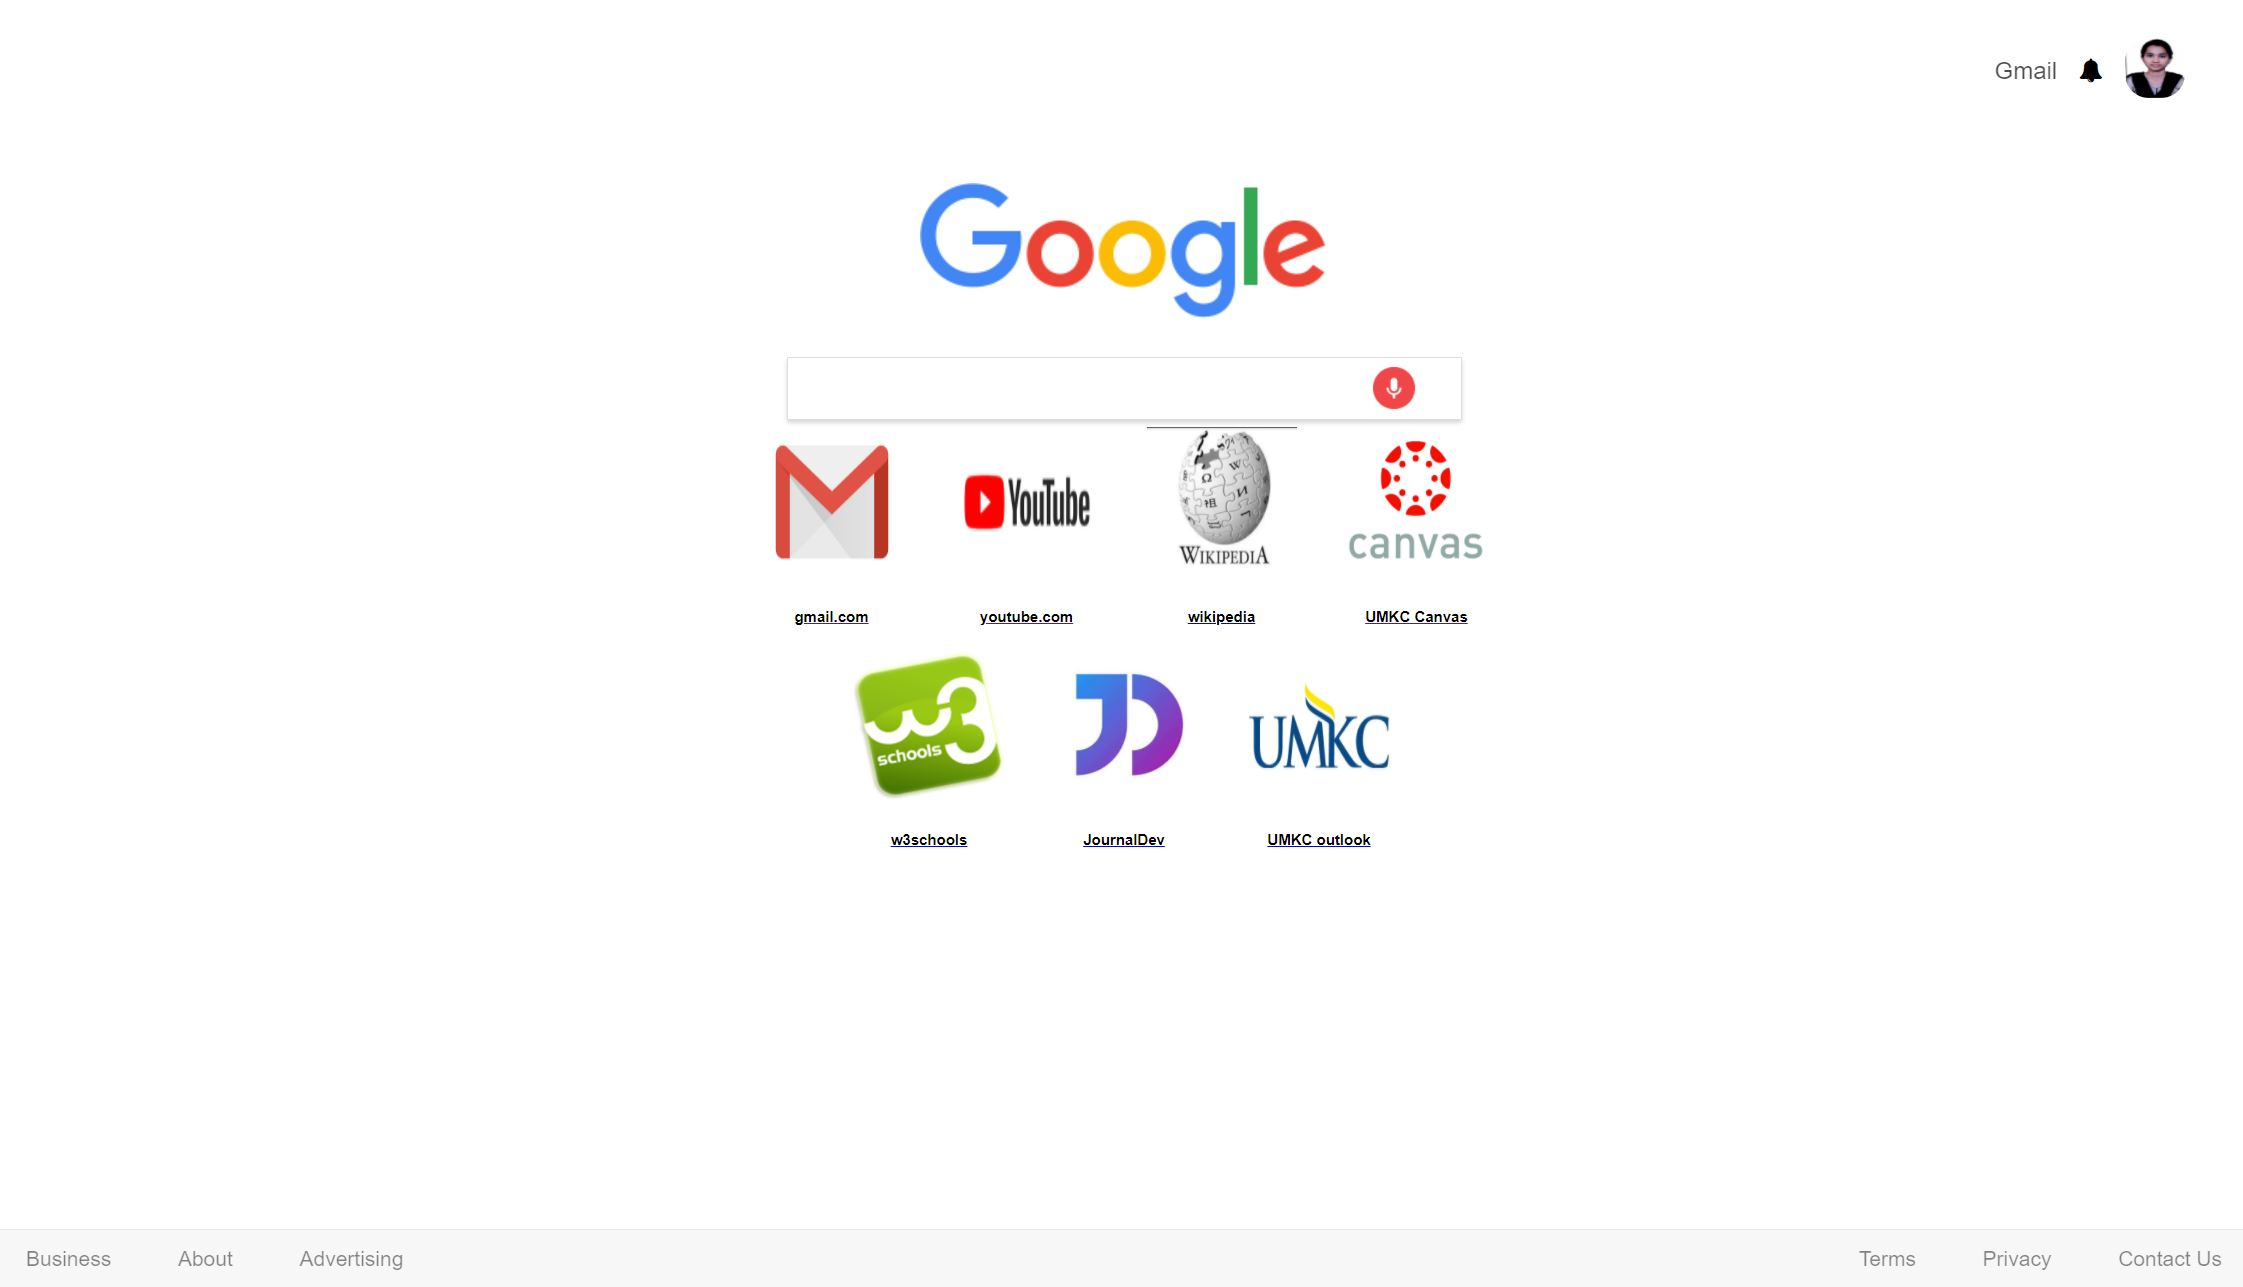
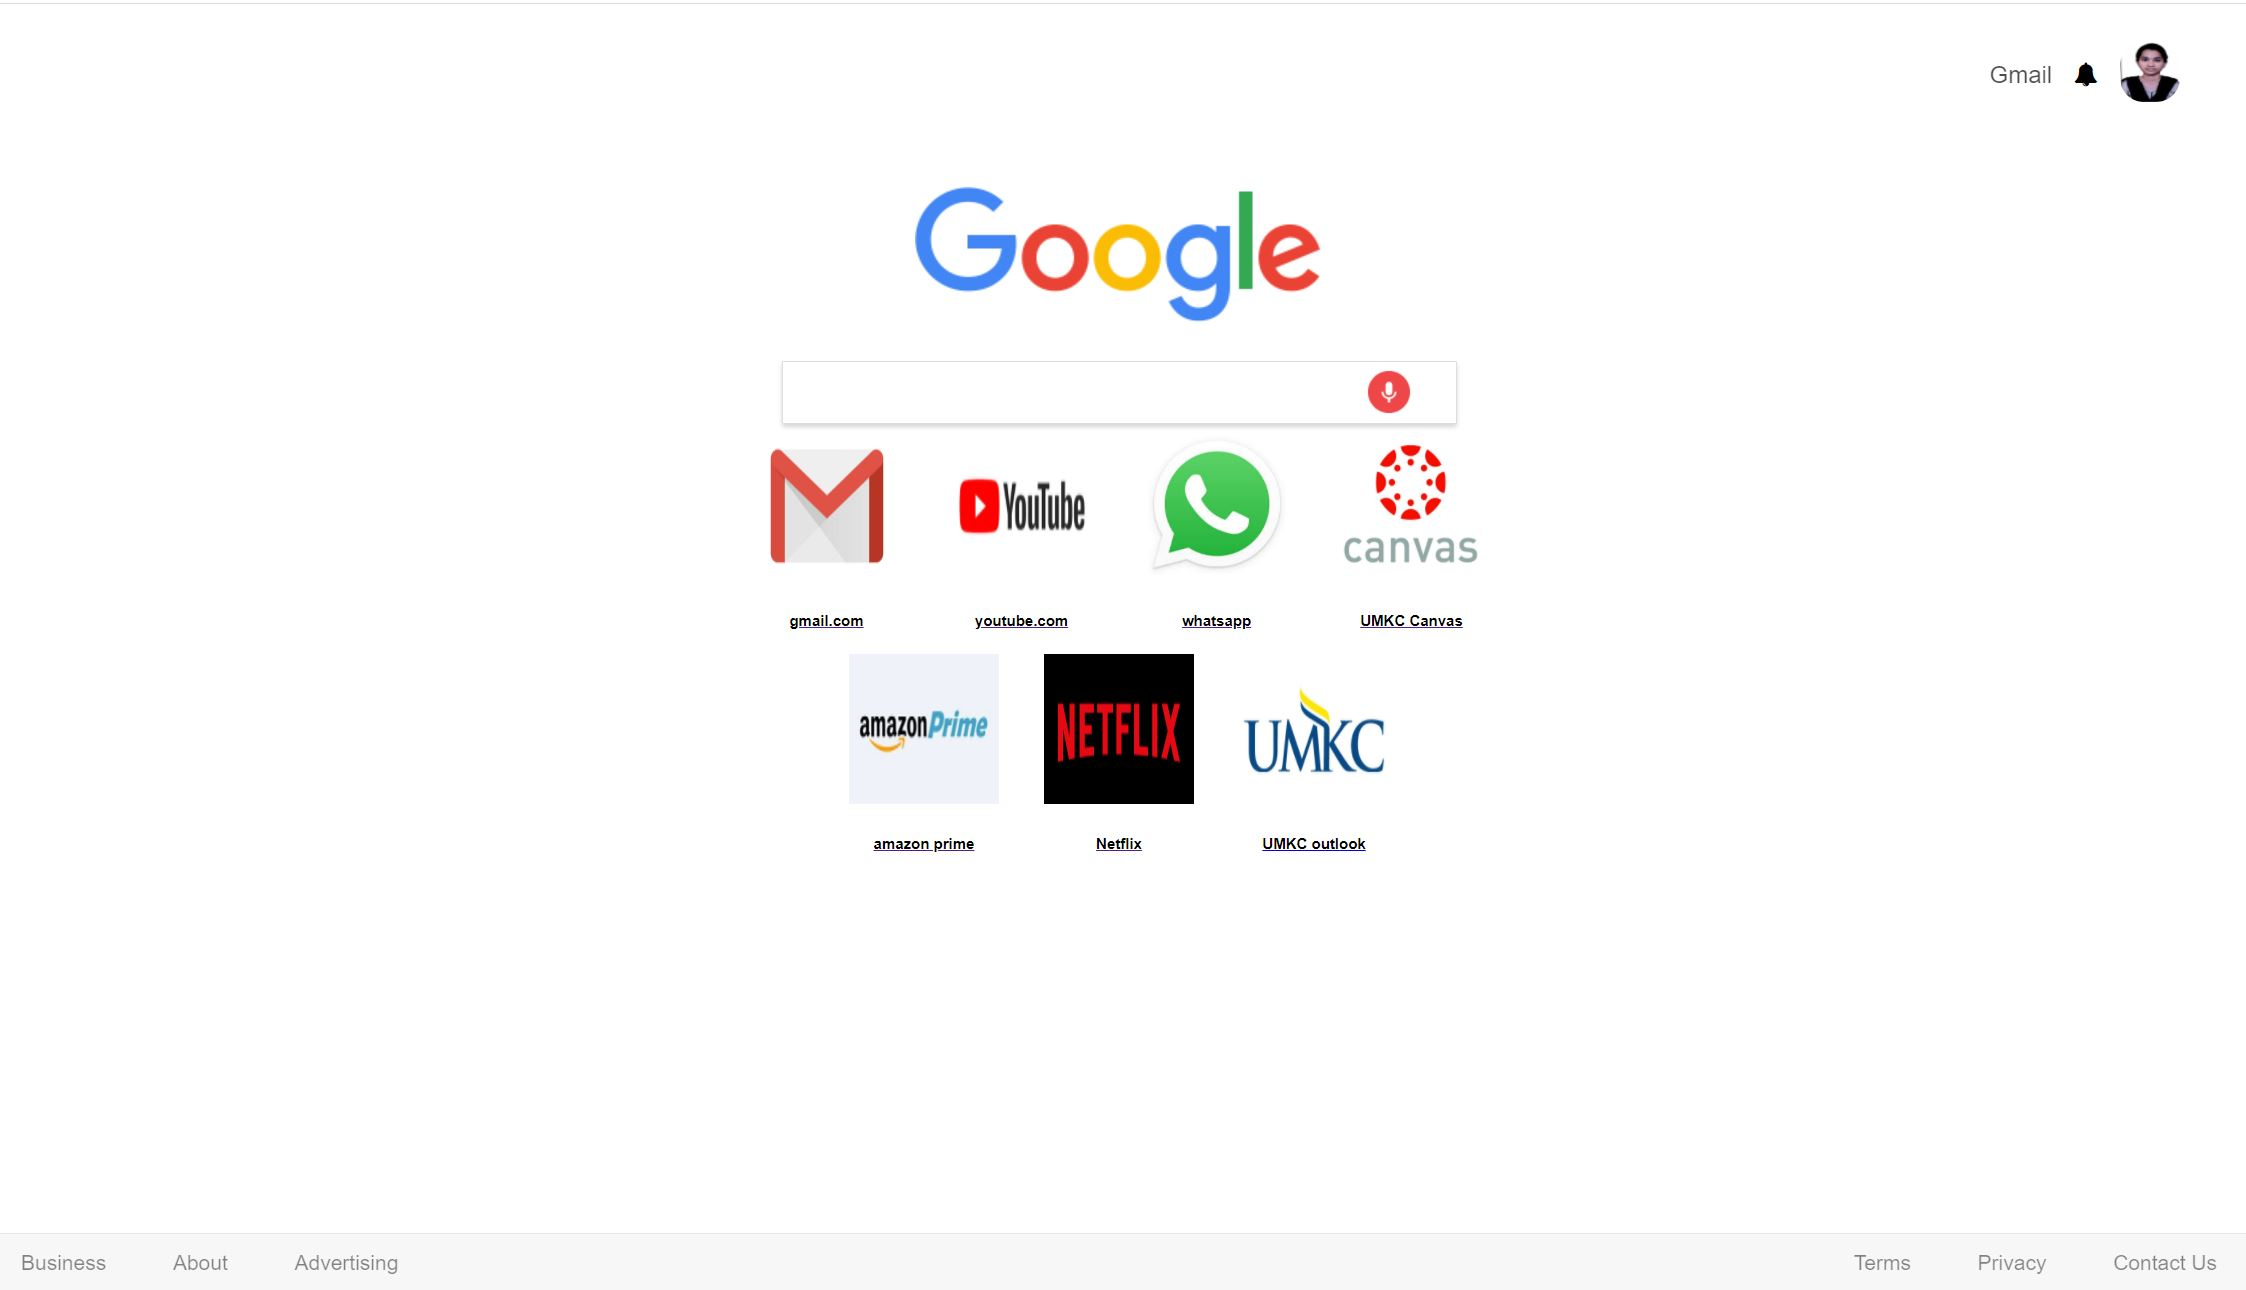
ICP2

diff --git a/ICP2/SOURCE/google.html b/ICP2/SOURCE/google.html
@@ -45,9 +45,9 @@
                     <span style="font-size: 10px;color: black">youtube.com</span>
             </div>
             <div class="flex-item">
-                <a href="https://www.wikipedia.org/" target="_blank">
-                    <img width="100px" height="100px" src="wikipedia">
-                    <span style="font-size: 10px;color: black">wikipedia</span>
+                <a href="https://www.whatsapp.com/" target="_blank">
+                    <img width="100px" height="100px" src="whatsapp.jfif">
+                    <span style="font-size: 10px;color: black">whatsapp</span>
             </div>
             <div class="flex-item">
                 <a href="https://online.umkc.edu/lms/" >
@@ -60,14 +60,14 @@
         <br>
         <div class="flex-container">
             <div class="flex-item">
-                <a href="https://www.w3schools.com/" target="_blank">
-                    <img width="100px" height="100px" src="w3.png">
-                    <span style="font-size: 10px;color: black">w3schools</span>
+                <a href="https://www.amazon.com/amazonprime?_encoding=UTF8&%2AVersion%2A=1&%2Aentries%2A=0" target="_blank">
+                    <img width="100px" height="100px" src="amazon.jfif">
+                    <span style="font-size: 10px;color: black">amazon prime</span>
             </div>
             <div class="flex-item">
-                <a href="https://www.journaldev.com/" target="_blank">
-                    <img width="100px" height="100px" src="jd.jfif">
-                    <span style="font-size: 10px;color: black">JournalDev</span>
+                <a href="https://www.netflix.com/browse" target="_blank">
+                    <img width="100px" height="100px" src="netflix.png">
+                    <span style="font-size: 10px;color: black">Netflix</span>
             </div>
             <div class="flex-item">
                 <a href="https://www.umkc.edu/exchange/" target="_blank">
